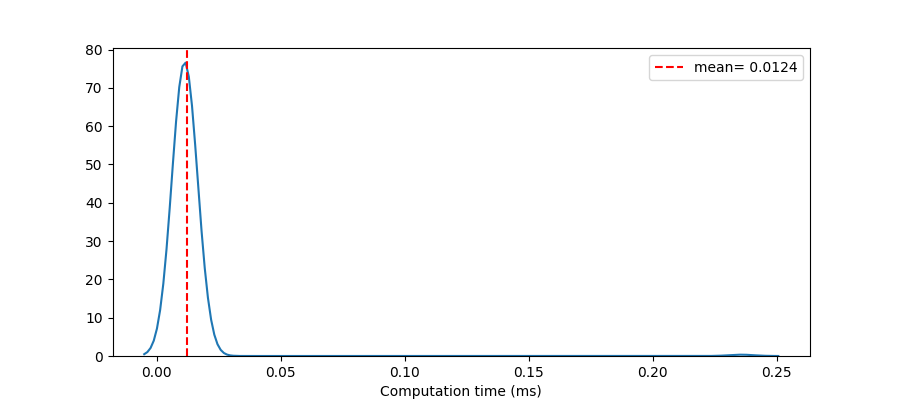
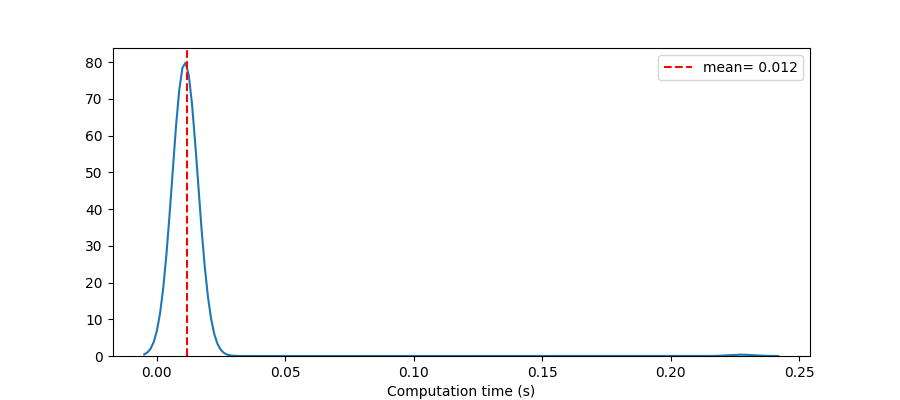
update README + print correction

diff --git a/test.py b/test.py
@@ -111,7 +111,7 @@ def main():
                 +"\n"
                 +"- Accuracy: mean={} std={}\n".format(np.mean(accuracies),np.std(accuracies))
                 +"\n"
-                +"- Model's computation time (ms): mean={} std={}\n".format(np.mean(computation_times),np.std(computation_times))
+                +"- Model's computation time (s): mean={} std={}\n".format(np.mean(computation_times),np.std(computation_times))
                 +"\n"
                 +"- for label 'Sky':\n"
                 +"  > IoU : mean={} std={}\n".format(np.mean(IoU_by_label[1]),np.std(IoU_by_label[1]))
@@ -132,7 +132,7 @@ def main():
     violinplot(precision_by_label,"Precision",["Other","Sky"], filename=os.path.join(output_folder,"precision_violinplot.png"))
     violinplot(recall_by_label,"Recall",["Other","Sky"], filename=os.path.join(output_folder,"recall_violinplot.png"))
     violinplot(f1_score_by_label,"F1_score",["Other","Sky"], filename=os.path.join(output_folder,"f1_score_violinplot.png"))
-    distribution_plot(computation_times,"Computation time (ms)",filename=os.path.join(output_folder,"computation_time.png"))
+    distribution_plot(computation_times,"Computation time (s)",filename=os.path.join(output_folder,"computation_time.png"))
 
 if __name__ == '__main__':
     main()

diff --git a/README.md b/README.md
@@ -3,6 +3,8 @@
 The follow repository contains a first approach to segment the sky from  RGB pictures.
 It proposes a neural based solution in order to apply semantic segmentation in order to separate the sky from the rest of the input picture
 
+**Authors**: Pierre-Emmanuel Rebours, pierre.emm.rebours@gmail.com
+
 ## Context
 
 The follow proposition has been made for a technical test for a job opening. It has been realised on a local machine with the follow **configuration**:
@@ -17,12 +19,12 @@ The requirements are indicated into `requirements.txt`. With pip:
 pip install -r `requirements.txt`
 ```
 The follow code has been developed and test with Python 3.11.9
-You can download the train model at the follow [link]().Then, put the file `fcn_resnet50.pt` in the `runs` folder.
+You can download the train model at the follow [link](https://drive.google.com/file/d/1jC3rfhn1ANDZa1LhS2PkrRz2abkB8V_k/view?usp=sharing). Then, put the file `fcn_resnet50.pt` in the `runs` folder.
 
 
 ## Presentation of the solution
 
-The semantic segmentation is realised with a FCN (Fully Convolutional Networks) as the one presented by []. But contrary to the article, we will use a ResNet50 backbone for the encoder part.
+The semantic segmentation is realised with a FCN (Fully Convolutional Networks) as the one presented by [1]. But contrary to the article, we will use a ResNet50 backbone for the encoder part.
 
 ### Why FCN-ResNet50 ?
 
@@ -69,7 +71,7 @@ Cityscapes can be download on the [official website](https://www.cityscapes-data
 
 ### Training process
 
-You can download the train model at the follow [link](). Then, put the file `fcn_resnet50.pt` in the `runs` folder.
+You can download the train model at the follow [link](https://drive.google.com/file/d/1jC3rfhn1ANDZa1LhS2PkrRz2abkB8V_k/view?usp=sharing). Then, put the file `fcn_resnet50.pt` in the `runs` folder.
 The model `runs/fcn_resnet50.pt` has been train on the training set for 10 epochs, with Adam optimizer, with a learning rate of 1e-05.
 It has been train with random data augmentation including color jitter (random change in brightness, contrast, saturation and hue), auto-contrast, horizontal flip, random cropping.
 The log of the training process is `log/log.txt`.
@@ -92,7 +94,7 @@ It returns, as output, metrics distribution curve and violinplot on .png files a
 To evaluate the train model given in this repository, you can execute the follow command line in the project repository:
 
 ```bash
-python test.py --model_path="runs/fcn_epoch_9.pt" --config_path="config/config.yaml"
+python test.py --model_path="runs/fcn_resnet50.pt" --config_path="config/config.yaml"
 ```
 
 The evaluation results are saved in the folder `output/evaluation`.
@@ -104,13 +106,13 @@ You can also run the code in real-time with your own camera or other video sourc
 To run inference on a sample video, you can execute the follow command line in the project repository:
 
 ```bash
-python inference.py --model_path="runs/fcn_epoch_9.pt" --config_path="config/config.yaml" --input="sample/video.mp4"
+python inference.py --model_path="runs/fcn_resnet50.pt" --config_path="config/config.yaml" --input="sample/video.mp4"
 ```
 
 To run inference on your own video source in real time, you can execute the follow command line in the project repository:
 
 ```bash
-python inference.py --model_path="runs/fcn_epoch_9.pt" --config_path="config/config.yaml" --input="your/video/source" --real_time
+python inference.py --model_path="runs/fcn_resnet50.pt" --config_path="config/config.yaml" --input="your/video/source" --real_time
 ```
 
 The source can simply be a camera index (0 for default camera), a video stream url, or a file.
@@ -118,38 +120,49 @@ The source can simply be a camera index (0 for default camera), a video stream u
 If you run the follow command in the project repository, it should process the output of your default camera in real-time:
 
 ```bash
-python inference.py --model_path="runs/fcn_epoch_9.pt" --config_path="config/config.yaml"
+python inference.py --model_path="runs/fcn_resnet50.pt" --config_path="config/config.yaml"
 ```
 
 ## Results
 
 To see all evaluation plots, see `output/evaluation` folder. Some qualitative results are shown in `output/inference`.
-`output/inference/video.mp4` is the result of the applciation of the model on a sequence of Cityscapes. The three example images does not come from the dataset (homemade).
+`output/inference/video.mp4` is the result of the applciation of the model on a sequence of Cityscapes. The three example images does not come from the dataset (home-made).
 
 Metric value for the test split (233 images):
 
-- Accuracy: mean=0.9955040600166812 std=0.00366247009424878
-
-- Model's computation time (ms): mean=0.0124 std=0.0147
-
-- for label 'Sky' (positive class):
-  > IoU : mean=0.789 std=0.183
-  > Precision : mean=0.921 std=0.085
-  > Recall : mean=0.838 std=0.187
-  > F1_score : mean=0.866 std=0.163
-
-- for label 'Other' (negative class):
-  > IoU : mean=0.995 std=0.004
-  > Precision : mean=0.997 std=0.002
-  > Recall : mean=0.998 std=0.002
-  > F1_score : mean=0.998 std=0.002
+|  Metric         | mean  | std |
+| :--------        | :-------------: | :----:   | 
+| Accuracy  | 0.996       |  0.007     | 
+| Computation time (s)  | 0.0134      |  0.0147      | 
 
 
-<p align="center">
-  <img src="./output/inference/ex_1" width="350" title="hover text">
-  <img src="./output/inference/ex_2" width="350" title="hover text">
-  <img src="./output/inference/ex_3" width="350" title="hover text">
-</p>
+|  Metric  (for label 'Sky')       | mean  | std |
+| :--------        | :-------------: | :----:   | 
+| IoU  | 0.789      |  0.183     | 
+| Precision | 0.921      |  0.085      |
+| Recall | 0.838      |  0.187      | 
+| F1_score | 0.866      |  0.163     | 
+
+|  Metric  (for label 'Other')       | mean  | std |
+| :--------        | :-------------: | :----:   | 
+| IoU  | 0.995       |  0.004     | 
+| Precision | 0.997      |  0.002      |
+| Recall | 0.998      |  0.002     | 
+| F1_score | 0.998      |  0.002     | 
+
+
+### Qualitative results on random image (outside the Cityscapes)
+
+<div align="center">
+<img src="./sample/ex_1.jpg"   width="30%">
+<img src="./sample/ex_2.jpg"   width="30%">
+<img src="./sample/ex_3.jpg"   width="30%">
+</div>
+<div align="center">
+<img src="./output/inference/ex_1.png"   width="30%">
+<img src="./output/inference/ex_2.png"   width="30%">
+<img src="./output/inference/ex_3.png"   width="30%">
+</div>
 
 
 
@@ -161,8 +174,6 @@ Then, if Cityscapes is a good dataset, it focus only on urban scenes. And so, th
 
 About the computation time, the model run fast and real-time execution is possible. But the inference code `inference.py` could be computed fastly. The problem relies in particular on memory moves between cpu and gpu. A full computaion on gpu is preferable. TensorRT could also improve computation time over PyTorch.
 
-
-**Authors**: Pierre-Emmanuel Rebours, pierre.emm.rebours@gmail.com
 
 ## Reference
 
